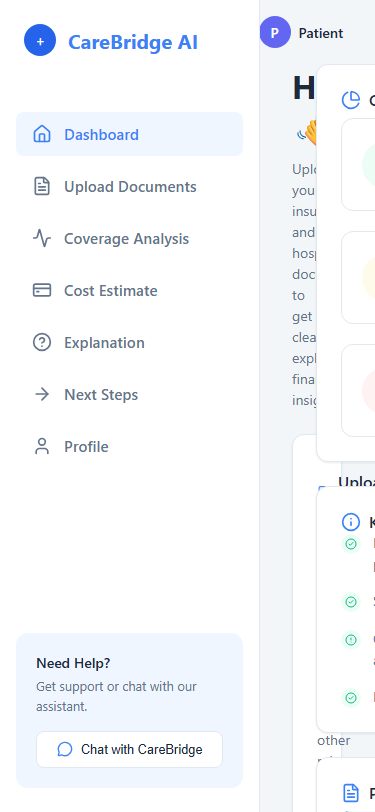
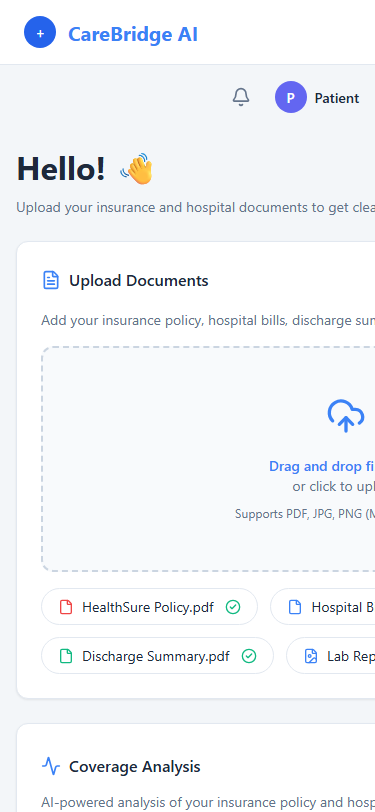
fix: resolve mobile layout issues and update screenshot

diff --git a/src/index.css b/src/index.css
@@ -456,3 +456,45 @@ tr:last-child td { border-bottom: none; }
   margin-bottom: 0.5rem;
   background-color: white;
 }
+
+/* Responsive Styles */
+@media (max-width: 900px) {
+  .app-container {
+    flex-direction: column;
+    overflow-y: auto;
+  }
+  .sidebar {
+    width: 100%;
+    border-right: none;
+    border-bottom: 1px solid var(--border);
+    flex-direction: row;
+    align-items: center;
+    justify-content: space-between;
+    padding: 1rem;
+  }
+  .sidebar nav, .sidebar .help-card {
+    display: none;
+  }
+  .brand {
+    margin-bottom: 0;
+  }
+  .main-content {
+    overflow-y: visible;
+  }
+  .content-grid {
+    flex-direction: column;
+    padding: 1rem;
+    gap: 1rem;
+  }
+  .right-column {
+    width: 100%;
+  }
+  .top-bar {
+    padding: 1rem;
+  }
+  .tabs {
+    overflow-x: auto;
+    white-space: nowrap;
+    padding-bottom: 0.25rem;
+  }
+}
